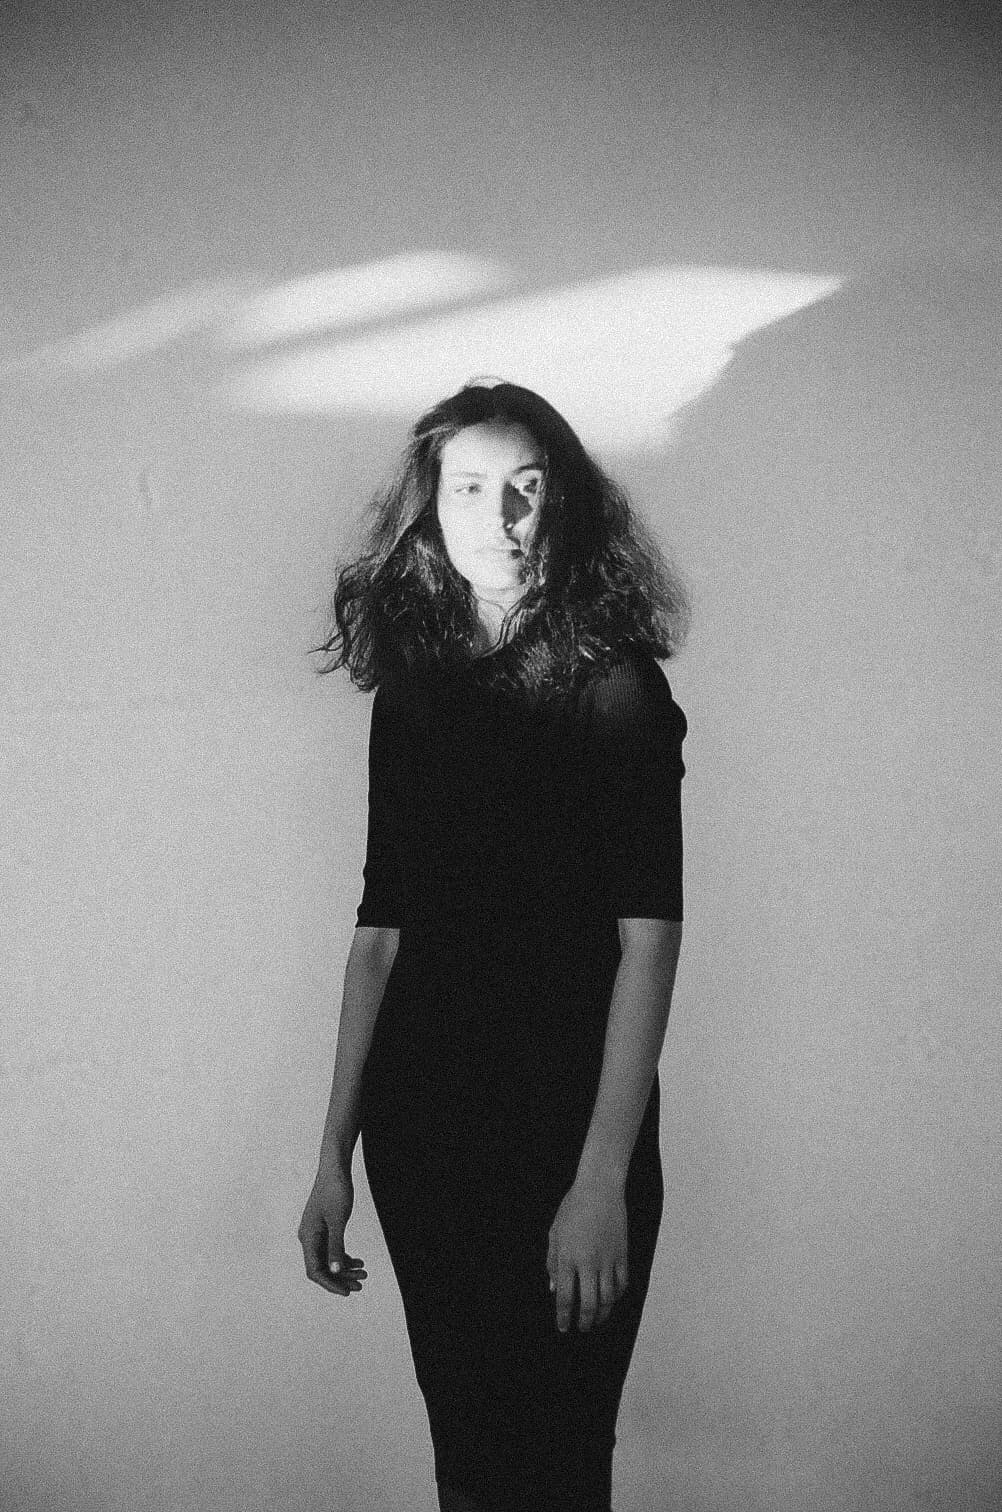
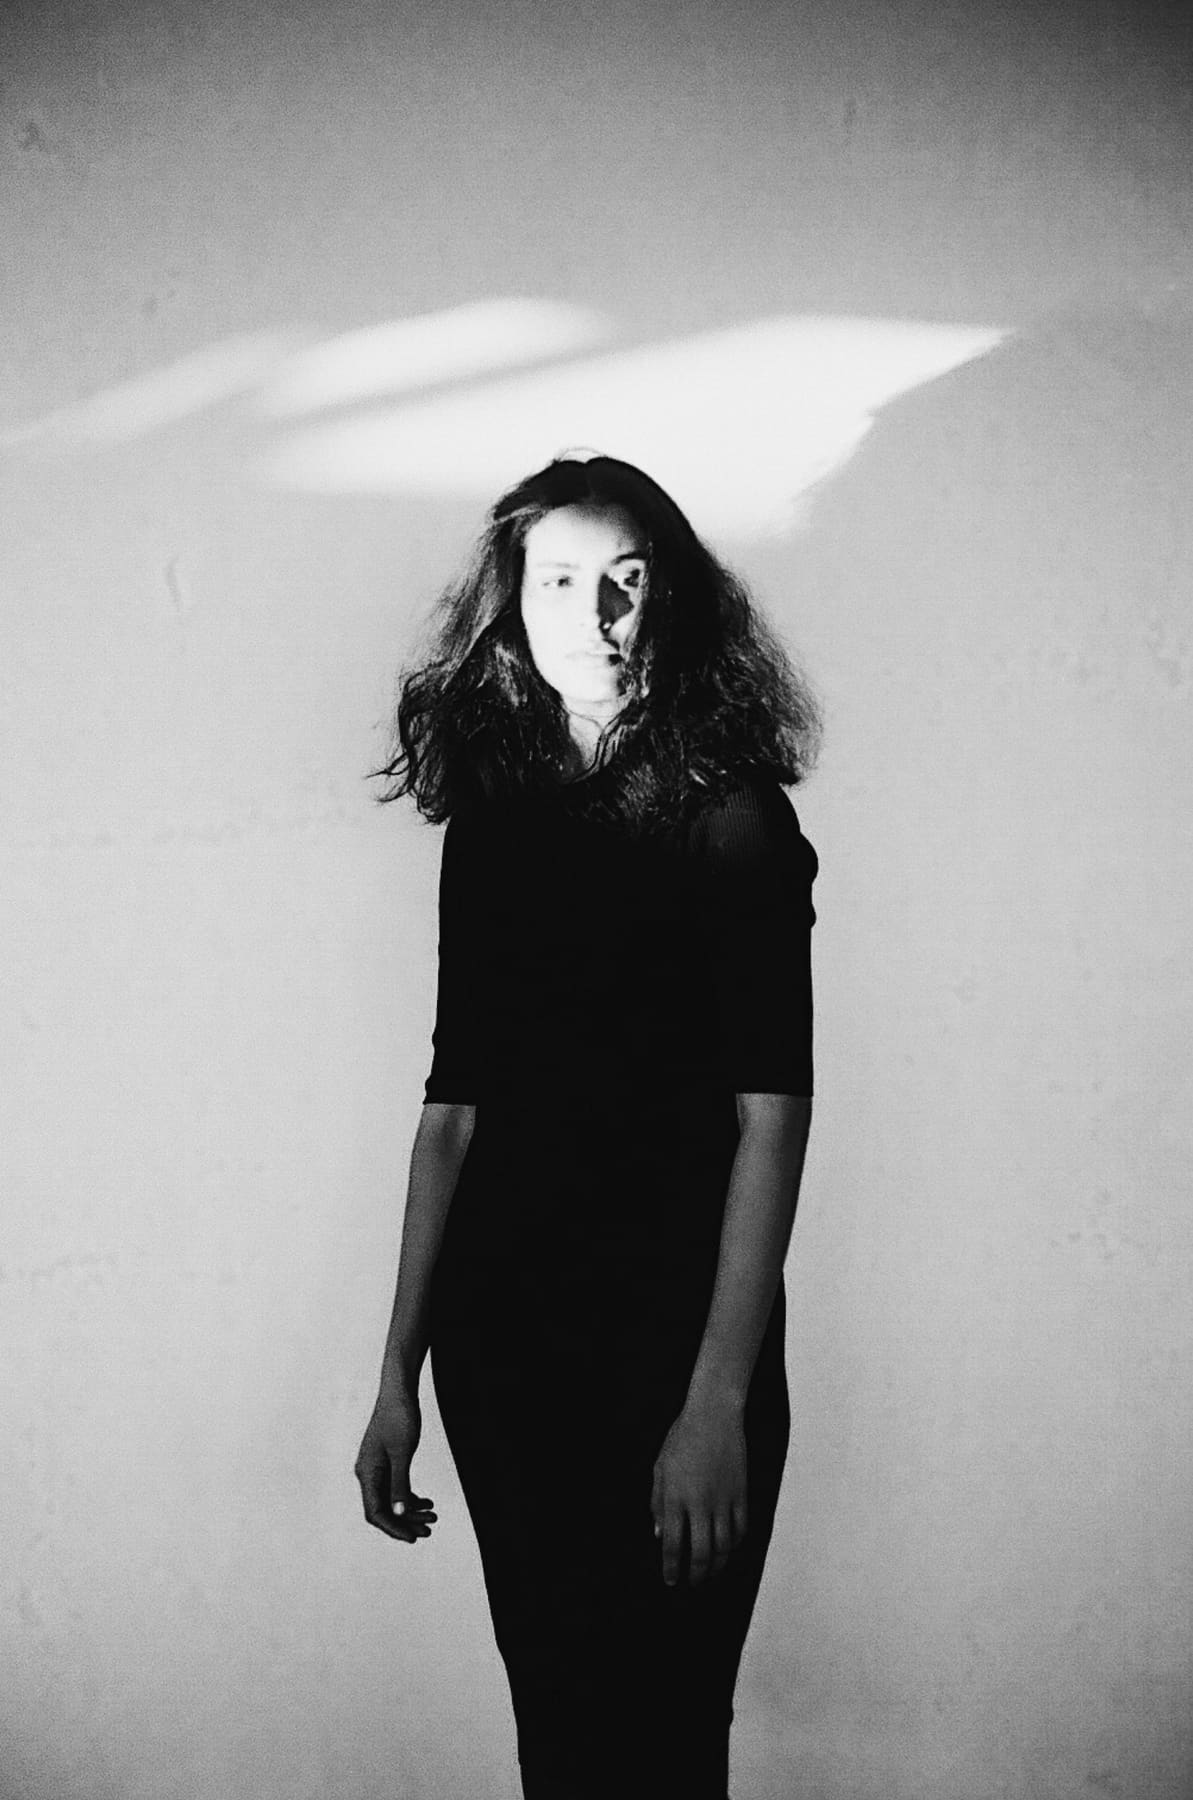
Recover two frames I had dismissed by filename
Both files named `.albumtemp` are real work, not iOS scratch. That was the
second time a file was judged by its name rather than opened — the HEICs
were the first — so they were decoded and looked at:

- `.albumtemp.PNG` is a new picture: two film frames side by side of a
  figure in a KEPT shirt, arms crossed over the face against blue sky. Added
  to Sitters as 'Kept'.
- `.albumtemp.JPG` is the same negative as Sfayaa but 3024px against the
  1002px copy in use. Trimmed of its white print surround it lands at ratio
  0.6628 against the old 0.6627 — the same framing, considerably sharper —
  so it replaces the file rather than joining it.

Gallery is 27 frames.

Claude-Session: https://claude.ai/code/session_019NShiC6QP4jxH9HfdwdP7N

diff --git a/js/lqip.js b/js/lqip.js
@@ -50,7 +50,9 @@ export const LQIP = {
   'images/sitters-07.jpg':
[1 lines of base64/hex data omitted]
   'images/sitters-08.jpg':
[2 lines of base64/hex data omitted]
+  'images/sitters-09.jpg':
[1 lines of base64/hex data omitted]
   'images/winter-01.jpg':
[1 lines of base64/hex data omitted]
   'images/winter-02.jpg':

diff --git a/js/data.js b/js/data.js
@@ -161,7 +161,15 @@ export const PHOTOS = [
     alt: 'A figure in black against a bright wall, caught mid-turn',
     title: 'Sfayaa',
     series: 'sitters',
-    ratio: 0.6627,
+    ratio: 0.6628,
+  },
+
+  {
+    src: 'images/sitters-09.jpg',
+    alt: 'Two frames side by side: a figure in a KEPT shirt, arms crossed over the face against a blue sky',
+    title: 'Kept',
+    series: 'sitters',
+    ratio: 1,
   },
 
   /* --- Concrete: buildings, streets, signage --------------------------- */
